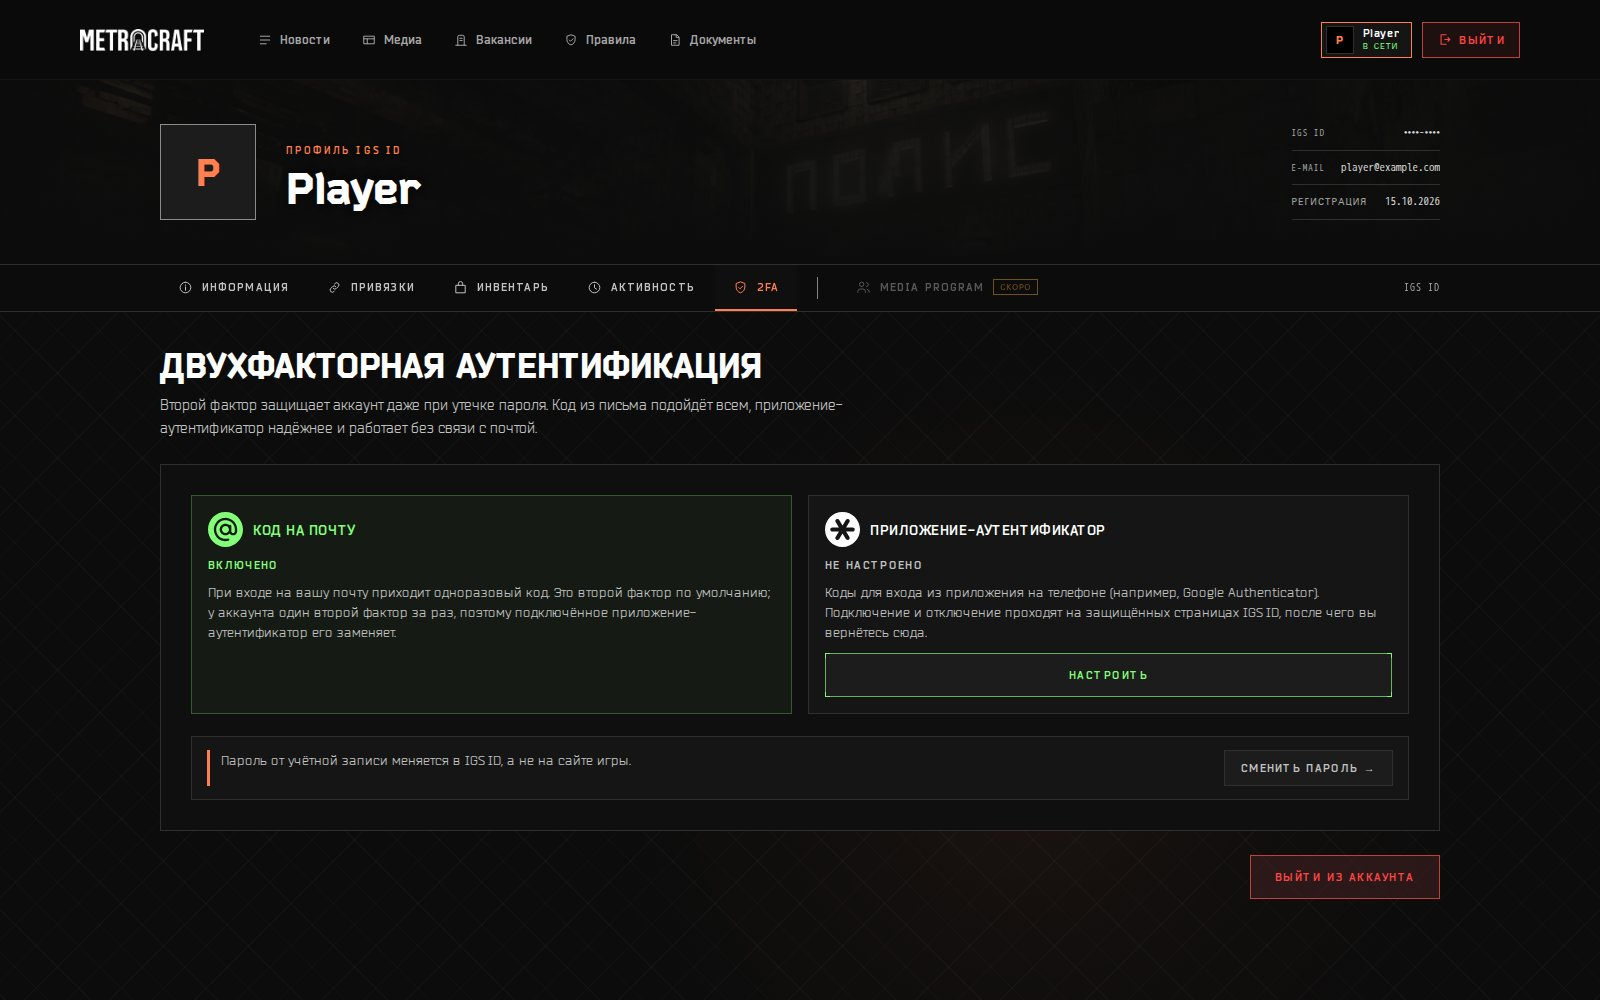
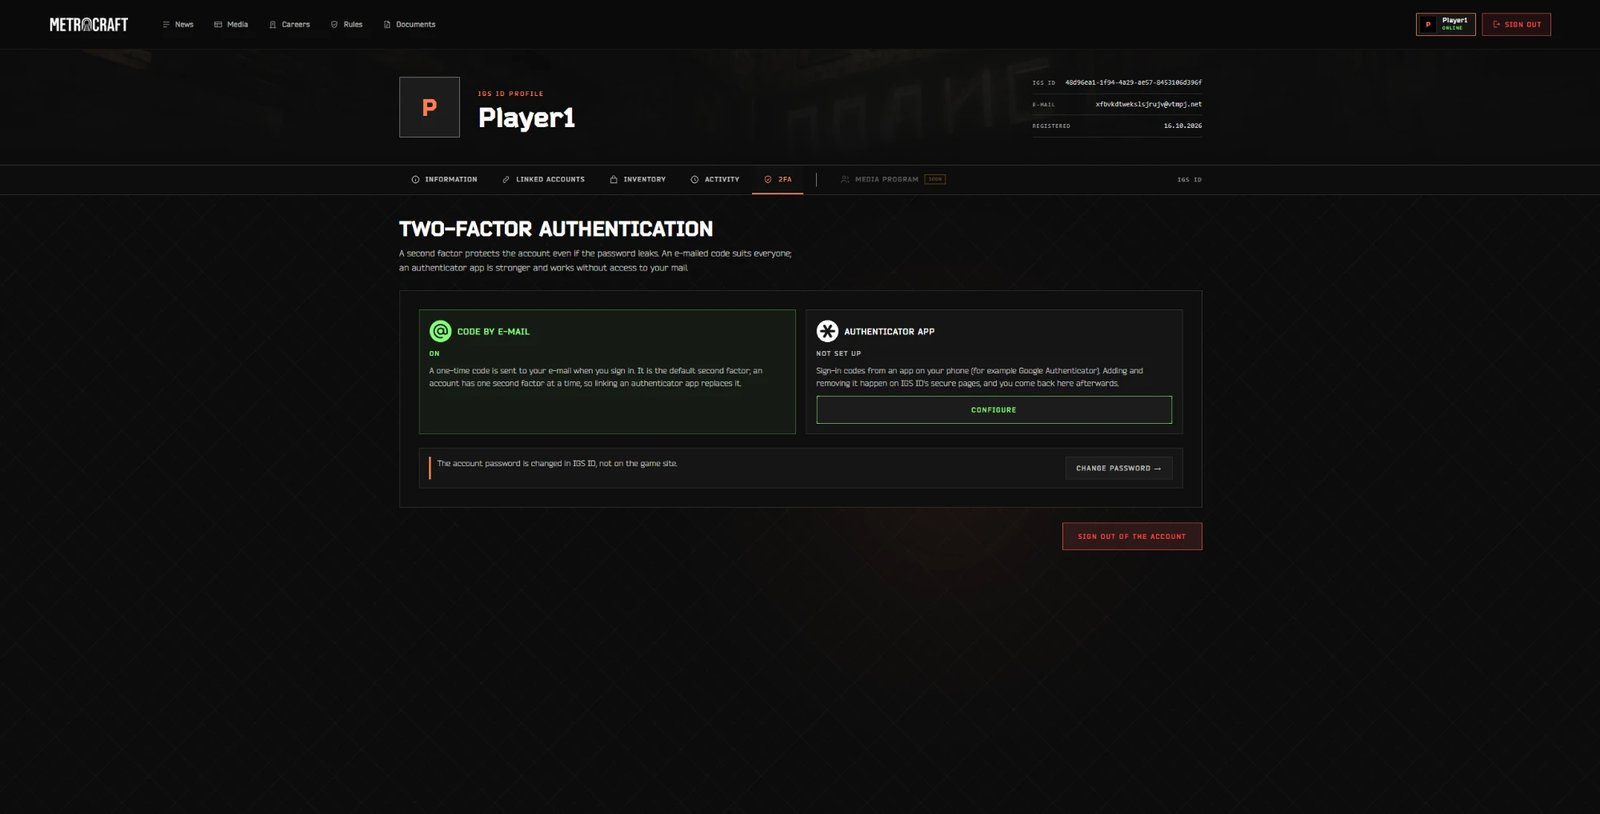
Use English screenshots from the global news post

diff --git a/README.md b/README.md
@@ -12,7 +12,7 @@ The web side of [Metrocraft 2036](https://github.com/IgorJs2/MetrocraftGame): th
 | Current version | Went live in October 2026, after a maintenance window that replaced the site, forum, login and launcher at once |
 | Editions | Global (.com, English) and Russian (.ru): separate domains, news, forum sections and file servers, one shared account |
 
-![Global home page](images/home-global.jpg)
+![Home page](images/home.jpg)
 
 ## How it fits together
 - Next.js frontend, one codebase built into two editions by domain.
@@ -23,13 +23,14 @@ The web side of [Metrocraft 2036](https://github.com/IgorJs2/MetrocraftGame): th
 - Docker Compose environments with GitHub Actions deploys, behind nginx and Cloudflare, with Sentry, Prometheus and Grafana for errors and metrics.
 
 ## IGS ID and the player profile
-The profile has five tabs: account info (nickname, playtime, balance, characters, promo codes), linked accounts, an inventory of event rewards and currency, active sessions across site, forum and launcher, and security settings with 2FA.
+The profile has five tabs: account info (nickname, playtime, balance, characters, promo codes), linked accounts, an inventory of event rewards and currency, recent activity across the site, forum and launcher, and security settings with 2FA.
 
 ![IGS ID login](images/igs-id-login.jpg)
 ![Profile](images/account.jpg)
 ![Linked accounts](images/account-links.jpg)
 ![Two-factor authentication](images/account-2fa.jpg)
-![Active sessions](images/account-sessions.jpg)
+![Inventory](images/account-inventory.jpg)
+![Recent activity](images/account-activity.jpg)
 
 ## News, forum and support
 - News with categories (updates, patch notes, tests, devlogs), shown on the site and inside the launcher.
@@ -39,6 +40,7 @@ The profile has five tabs: account info (nickname, playtime, balance, characters
 
 ![News](images/news.jpg)
 ![Forum](images/forum.jpg)
+![Forum thread](images/forum-thread.jpg)
 ![Support](images/support.jpg)
 
 ## Launcher
@@ -47,6 +49,7 @@ A Tauri launcher with versioned builds, several saved accounts, a language switc
 ![Launcher](images/launcher.jpg)
 ![Launcher accounts](images/launcher-accounts.jpg)
 ![Launcher news](images/launcher-news.jpg)
+![Language switch](images/launcher-language.jpg)
 
 ## Tech stack
 | Area | Stack |
@@ -57,7 +60,3 @@ A Tauri launcher with versioned builds, several saved accounts, a language switc
 | Community | Flarum, FreeScout, Discord bots |
 | Launcher | Tauri, S3/CDN, peer-to-peer delivery (rqbit) |
 | Infrastructure | Docker Compose, GitHub Actions, nginx, Cloudflare, Sentry, Prometheus, Grafana |
-
-The Russian home page:
-
-![Russian home page](images/home-ru.jpg)
